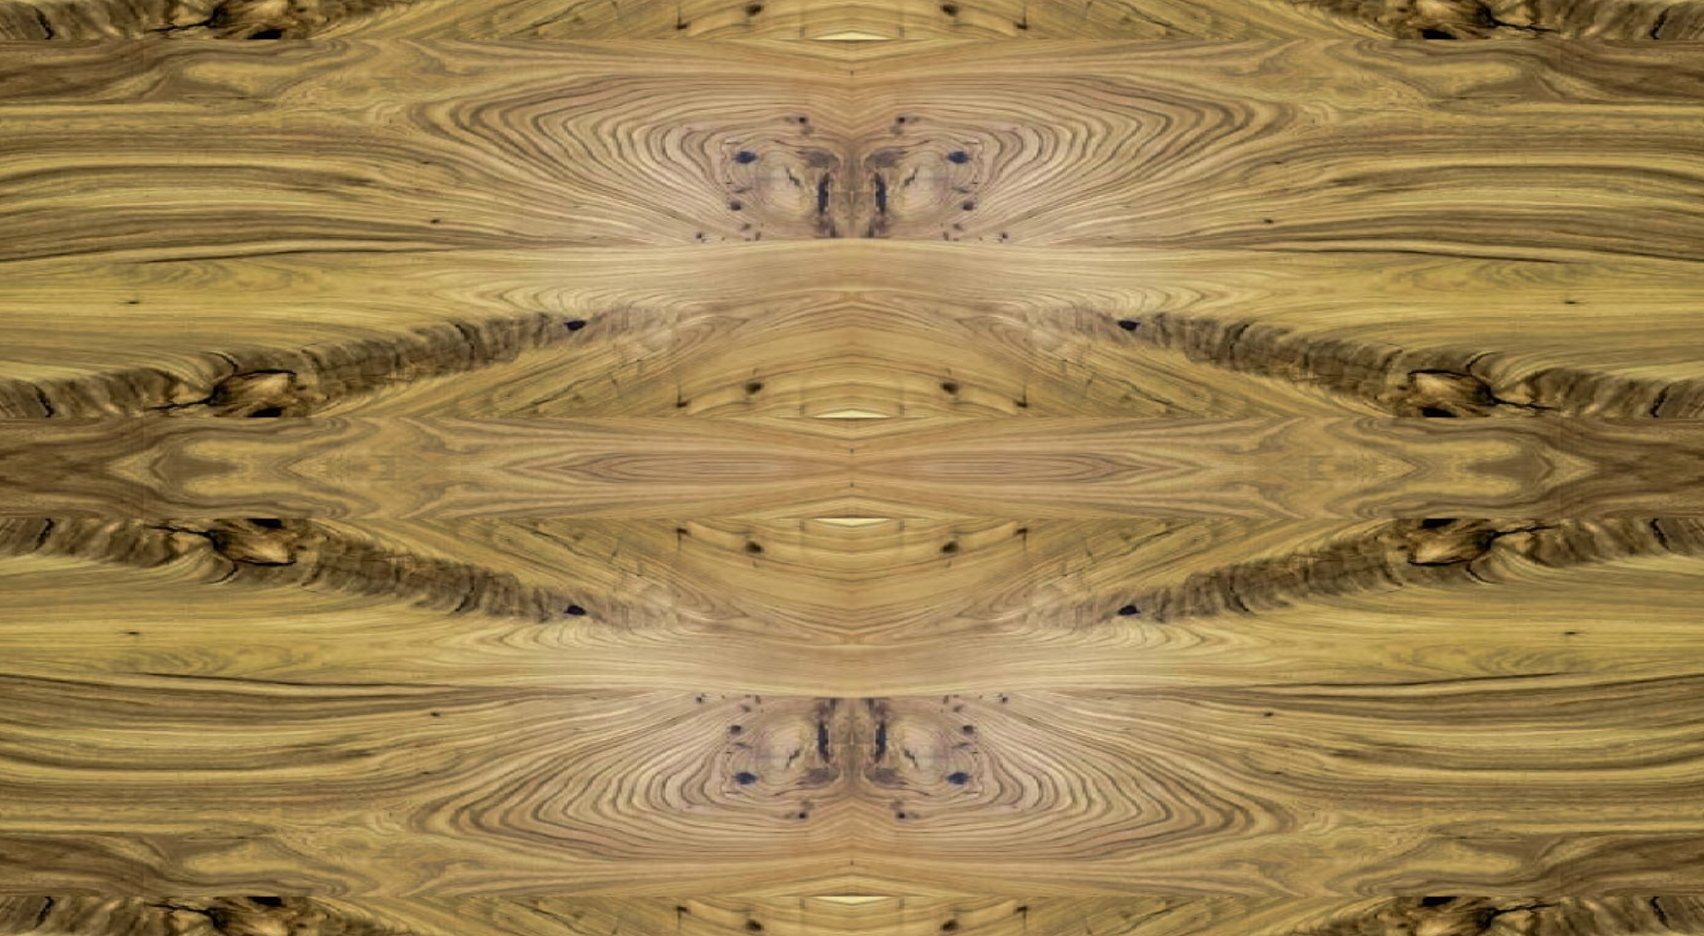
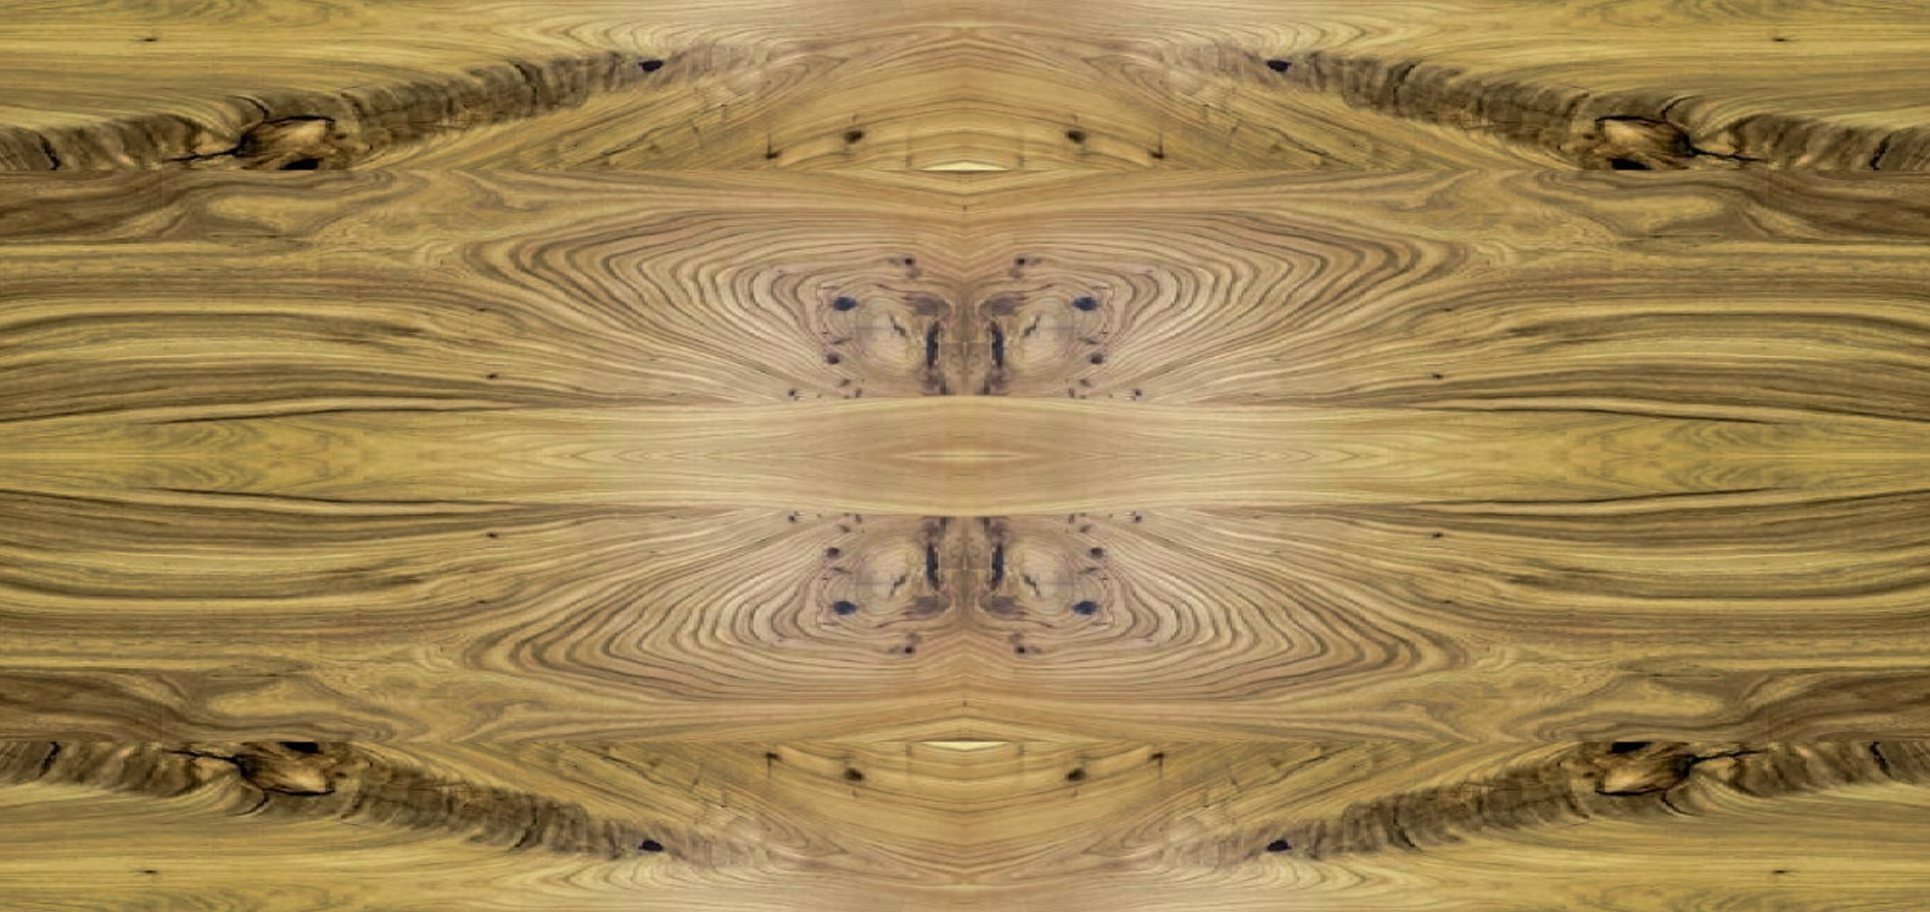
Слэб: новая текстура (другой образец), одно фото ≈ 1270 мм по длине

diff --git a/src/shared/STOL/model.js b/src/shared/STOL/model.js
@@ -25,8 +25,8 @@ export const STONE_TONES = [
   { id: "belyj", label: "Белый камень", tile: [800, 600] },
   { id: "temnyj", label: "Тёмный камень", tile: [1800, 1200] },
 ];
-/** слэб: одна текстура public/tex/sleb/sleb.jpg; одно фото ≈ 1200 × 663 мм, плитка 2×2 — 2400 × 1326 мм (столешница 1200×600 без повторов) */
-export const SLAB_TONES = [{ id: "sleb", label: "Слэб", tile: [2400, 1326] }];
+/** слэб: одна текстура public/tex/sleb/sleb.jpg (кадр 965×456 px); одно фото ≈ 1270 × 600 мм, плитка 2×2 — 2540 × 1200 мм (столешница 1200×600 без повторов) */
+export const SLAB_TONES = [{ id: "sleb", label: "Слэб", tile: [2540, 1200] }];
 const ALL_TONES = [...TONES, ...STONE_TONES, ...SLAB_TONES];
 /** группы тонов: дерево — 12 тонов, камень — 2, слэб — 1 */
 const TONE_GROUPS = { wood: TONES, stone: STONE_TONES, slab: SLAB_TONES };
